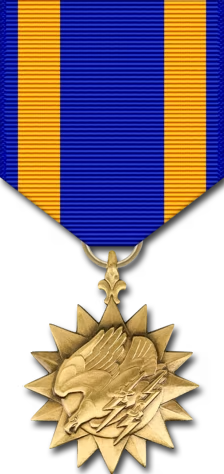
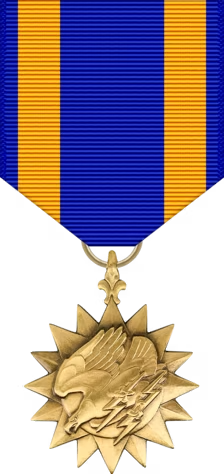
New medal artwork: one canvas, no baked shadows
All seventeen drawn bases replaced. Every one is now 224x474 - 602021 was
244x484 and had been resized on load, costing it sharpness - and the cast
shadows are gone, down from 5-12% of the canvas to the 0.02-0.6% that is
just antialiased edge.

That fixes a doubling nobody had noticed: .medal carries a CSS drop-shadow
taken from each medal's own silhouette, so the thirteen bases that had one
painted in were wearing two. Four already had none, which is why the rack
looked uneven from medal to medal.

Checked against what the renderer needs: every ribbon starts at row 0 and
runs the full 224 wide through the device zone, and every pendant reaches
the bottom of the canvas. Two look tight against a worst-case two-row
cluster stack, but neither can receive one - the Purple Heart tops out at
two clusters, one row landing at y 73-111 against cloth solid to 159, and
the Navy Distinguished Service Medal has no devices at all.

The Medal of Honor pair is untouched: the neck orders are a different
format, a 1122x930 overlay with the collar drawn in.

REVISION 26 so the render cache and the browser both take the new art.

diff --git a/korea_service_record/medals.py b/korea_service_record/medals.py
@@ -30,7 +30,7 @@ logger = logging.getLogger(__name__)
 
 ART = Path(__file__).resolve().parent / "static" / "images" / "medals"
 # Bump whenever the composition or the art changes; it is part of the URLs.
-REVISION = 25
+REVISION = 26
 
 # --- US: drawn art -----------------------------------------------------------
 # Every base medal is drawn 224 px wide - the drape is 1 3/8 inch, the same
